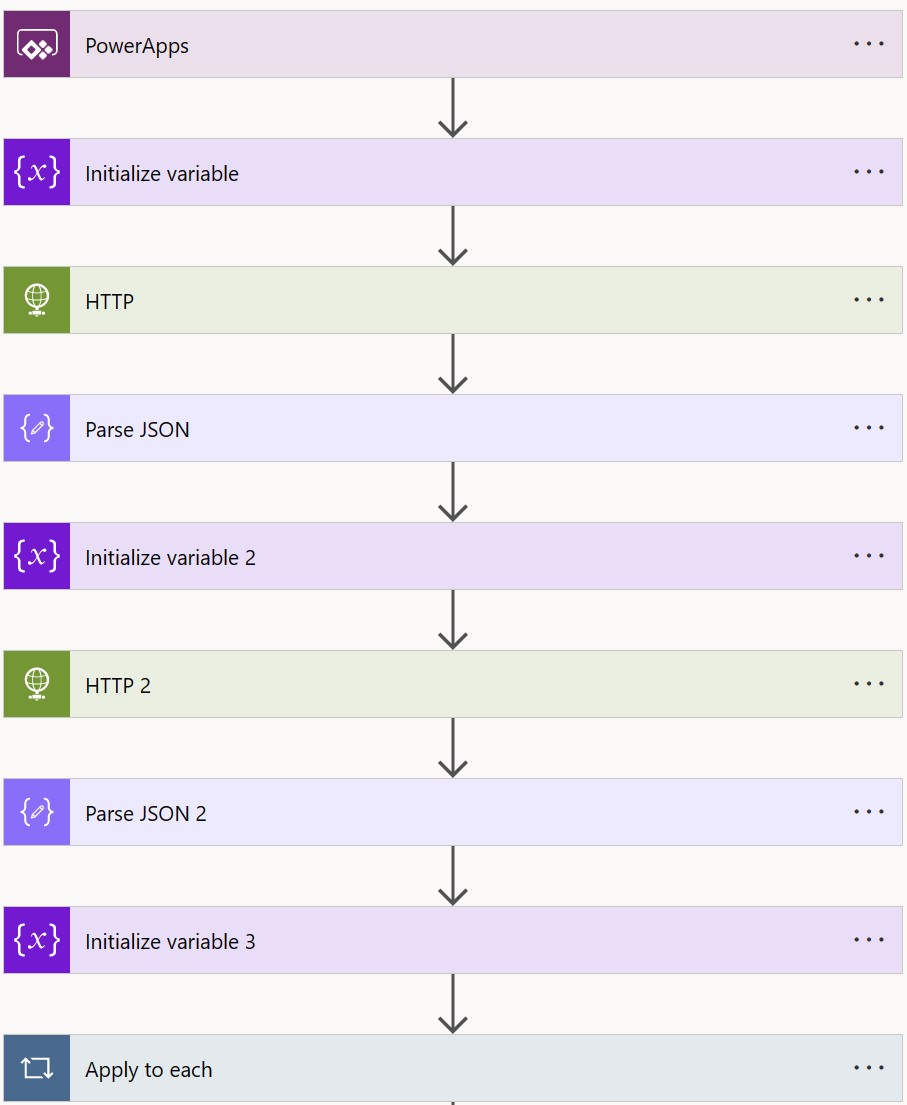
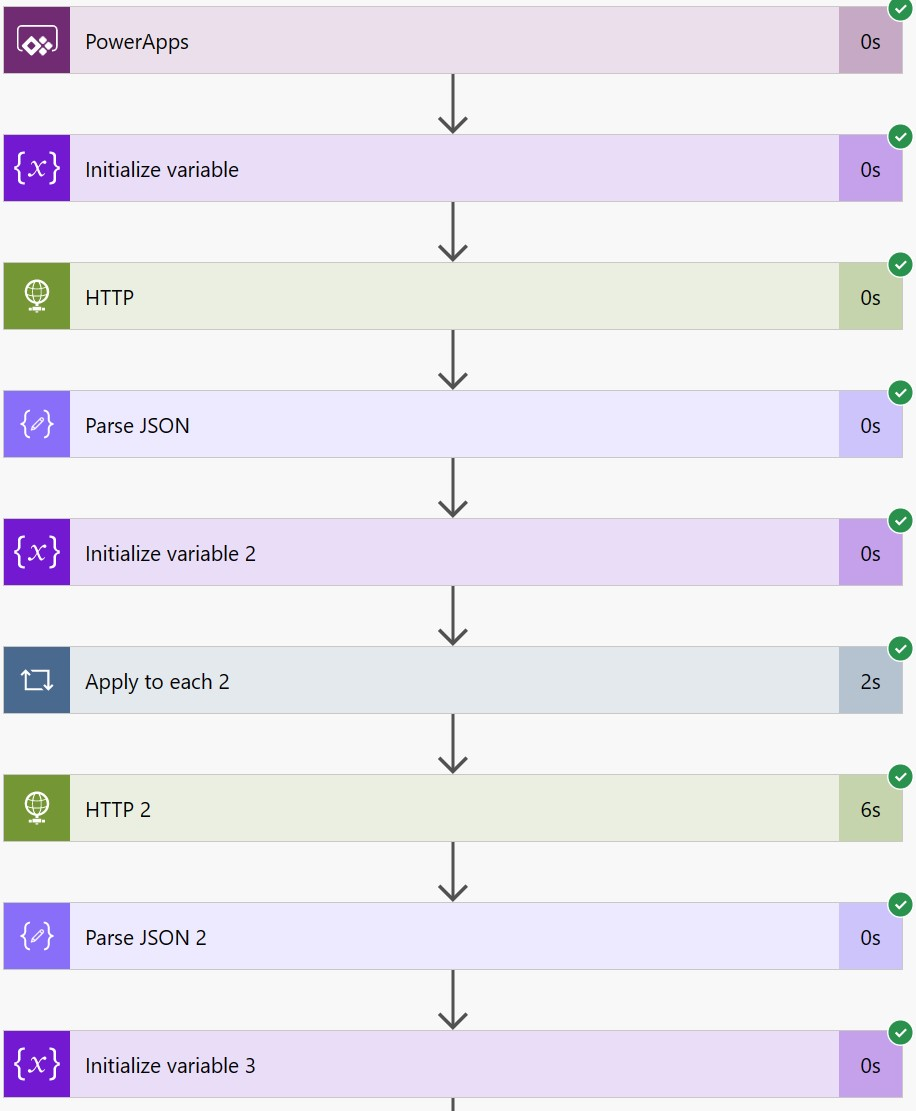
updated

diff --git a/AzureAI/bingsearchpowerapp.md b/AzureAI/bingsearchpowerapp.md
@@ -226,6 +226,15 @@ Ocp-Apim-Subscription-Key: <your_api_key>
 body('Parse_JSON')?['webPages']?['value']?[0]?['snippet']
 ```
 
+- Now for each the value array and pull all the snippets
+
+![Architecture](https://github.com/balakreshnan/Samples2023/blob/main/AzureAI/images/bingsearch13.jpg "Architecture")
+
+- Value to select
+- Loop through the value array
+- Select snippet from the value array
+- Append to string searchouttxt
+
 - i am only picking one row of result. If need more please loop deep links objects and grab the information
 
 
